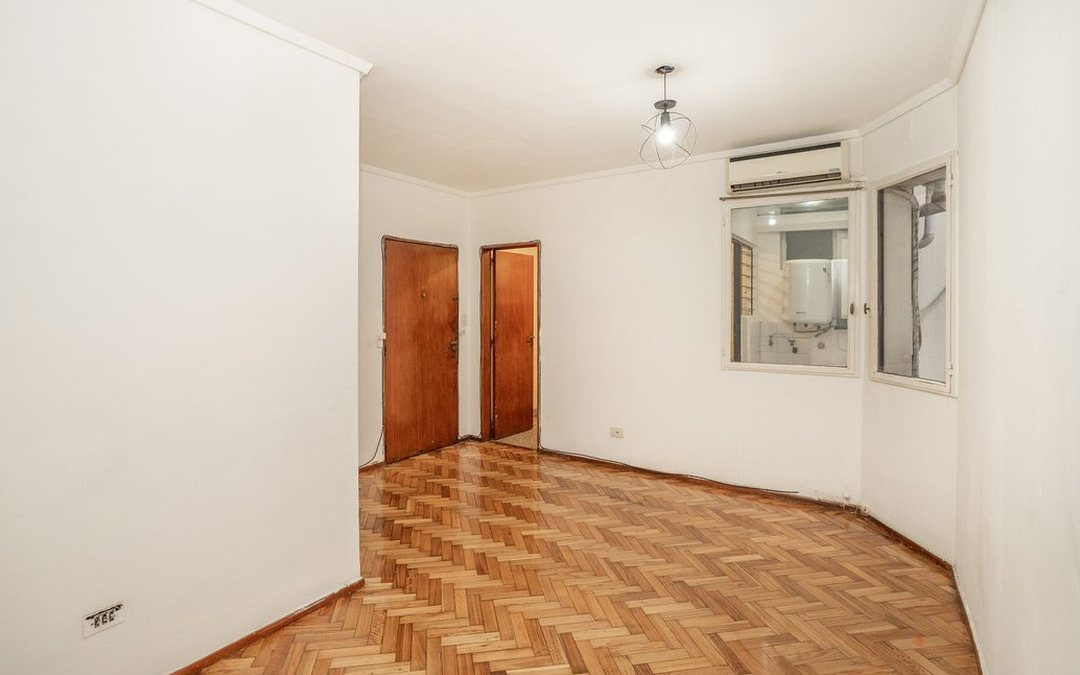
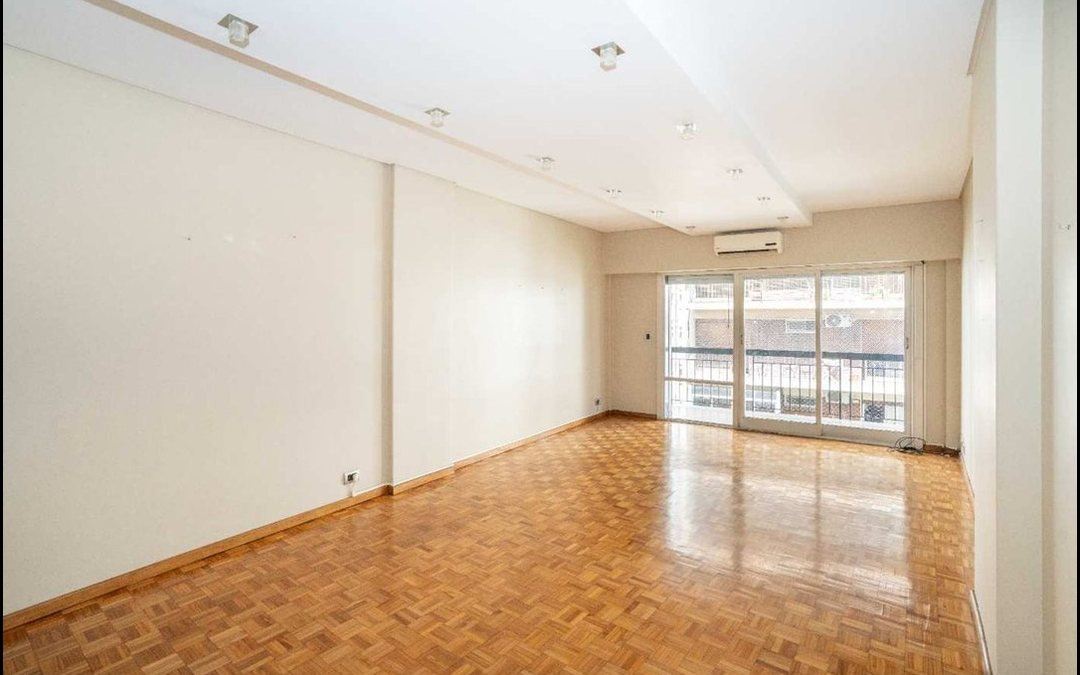
Living nuevo en el comparador
Fernando paso otro par del living, bastante mejor: se ve el comedor, el
sillon y el balcon en el mismo cuadro.

Este par venia casi alineado solo. Los dos son 3:2 y el render se hizo
sobre esa misma foto, asi que solo hizo falta igualar la resolucion y un
0,5% de escala. La correlacion de bordes dio 0,237, bastante mas alta que
la de los pares anteriores, que rondaba 0,15.

Subo esas dos a ?v=3. Son el mismo nombre de archivo que las de antes, asi
que sin cambiar el numero los que ya entraron seguirian viendo el living
viejo.

diff --git a/index.html b/index.html
@@ -2530,7 +2530,7 @@ footer{background:var(--navy);color:rgba(255,255,255,.66);padding:46px 0 112px;f
     /* cambio de ambiente. Precargo el otro par para que no parpadee */
     var ambientes={
       terraza:{antes:"img/terraza-antes.jpg?v=2", despues:"img/terraza-despues.jpg?v=2", nombre:"terraza"},
-      living: {antes:"img/living-antes.jpg?v=2",  despues:"img/living-despues.jpg?v=2",  nombre:"living comedor"},
+      living: {antes:"img/living-antes.jpg?v=3",  despues:"img/living-despues.jpg?v=3",  nombre:"living comedor"},
       dorm:   {antes:"img/dorm-antes.jpg?v=2",    despues:"img/dorm-despues.jpg?v=2",    nombre:"dormitorio"}
     };
     Object.keys(ambientes).forEach(function(k){
